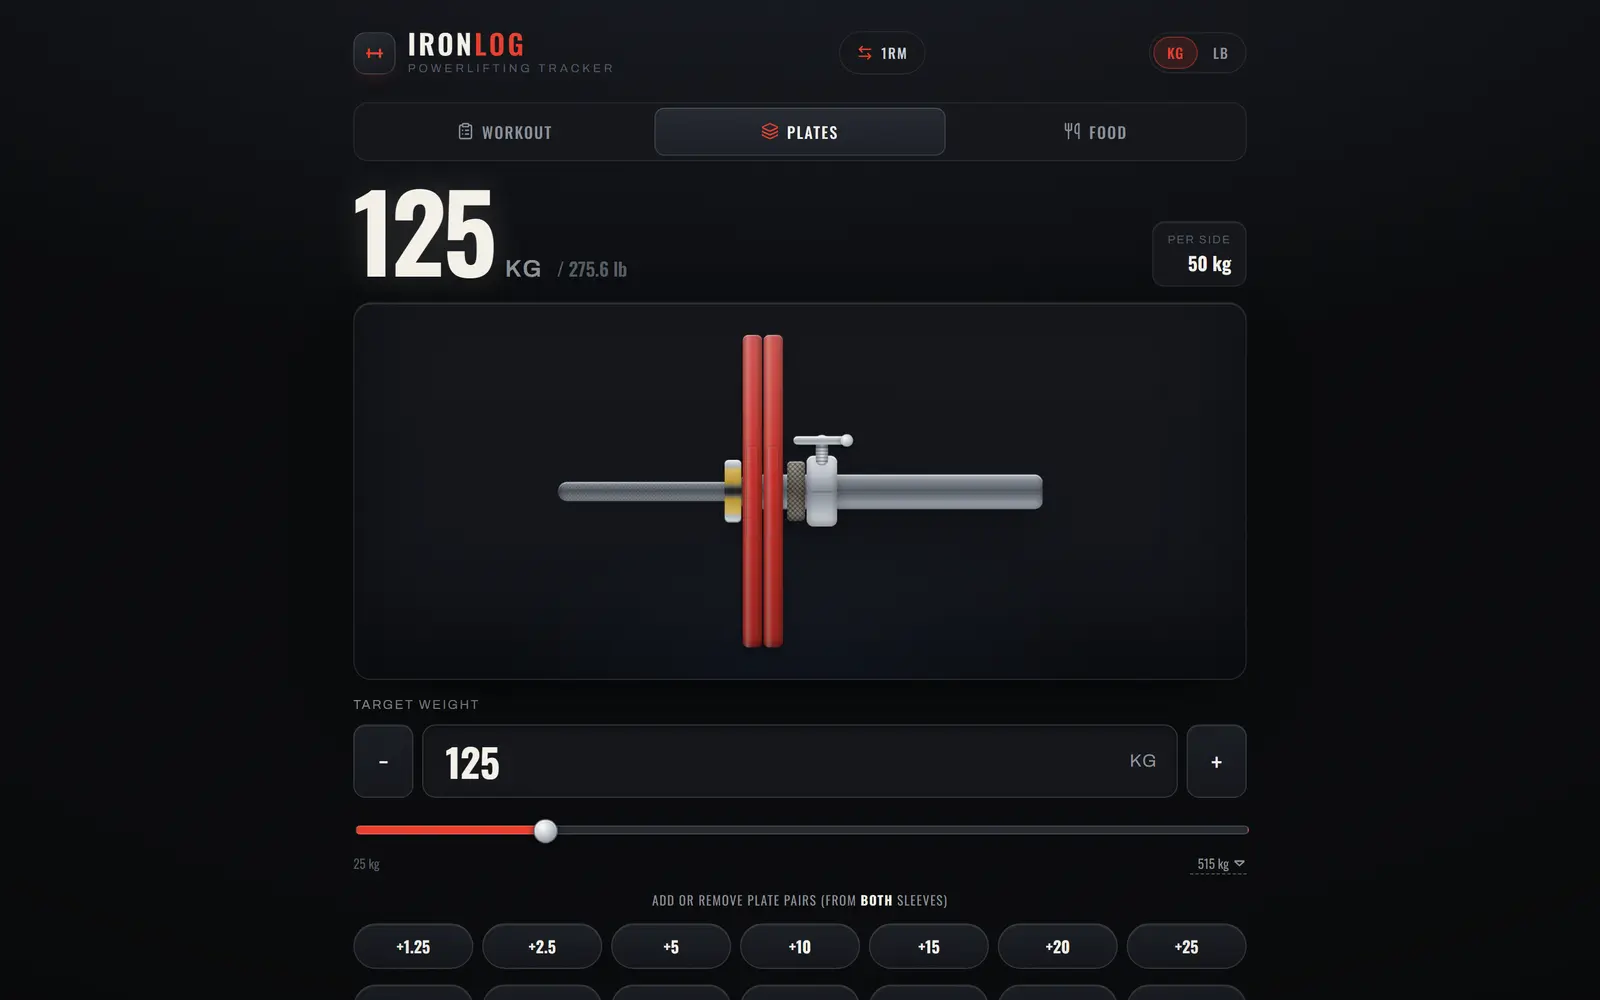
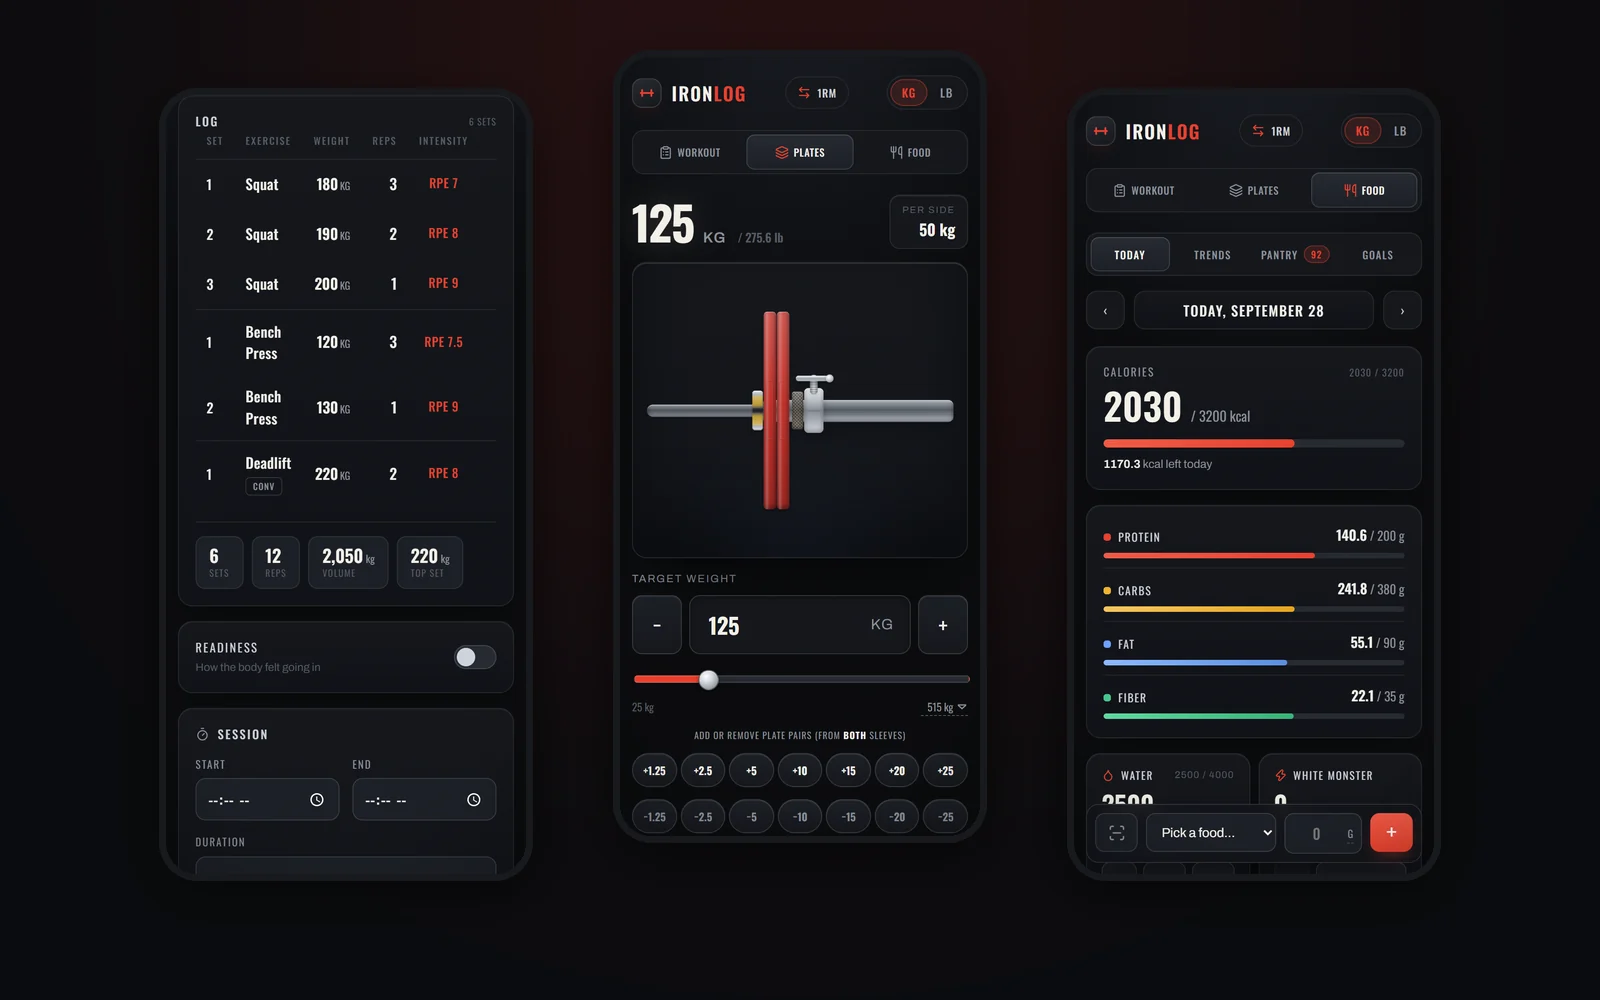
Show three Ironlog phone screens and fix the modal phone overlay
The modal's full-bleed image rule also matched the phone overlay and blew it
up to full width. The new ironlog-1600.webp shows workout, plates and food
screens side by side, so its separate phone overlay is off.

diff --git a/assets/css/site.css b/assets/css/site.css
@@ -519,7 +519,7 @@ p { margin: 0; }
 }
 .modal__close svg { width: 18px; height: 18px; stroke: currentColor; stroke-width: 1.8; fill: none; stroke-linecap: round; }
 .modal__media { position: relative; aspect-ratio: 16 / 9; background: var(--bg-3); border-bottom: 1px solid var(--line); overflow: hidden; }
-.modal__media > img { width: 100%; height: 100%; object-fit: cover; object-position: top center; }
+.modal__media > img:not(.modal__phone) { width: 100%; height: 100%; object-fit: cover; object-position: top center; }
 .modal__media .art, .modal__media .feature__media { width: 100%; height: 100%; border: 0; border-radius: 0; box-shadow: none; aspect-ratio: auto; }
 .modal__media .hive { height: 100%; display: flex; flex-direction: column; border: 0; border-radius: 0; box-shadow: none; }
 .modal__media .hive__body { flex: 1; height: auto; min-height: 0; }

diff --git a/assets/js/site.js b/assets/js/site.js
@@ -79,7 +79,7 @@
     ironlog: {
       tag: 'Web app',
       title: 'Ironlog',
-      img: 'ironlog', mob: true,
+      img: 'ironlog',
       lede: 'The powerlifting tracker I use for my own training. No account, and nothing leaves your browser.',
       features: [
         ['Log a session set by set.', 'RPE or percentage intensity, per-set gear, readiness meters and session timing, from a 47-lift exercise library.'],
